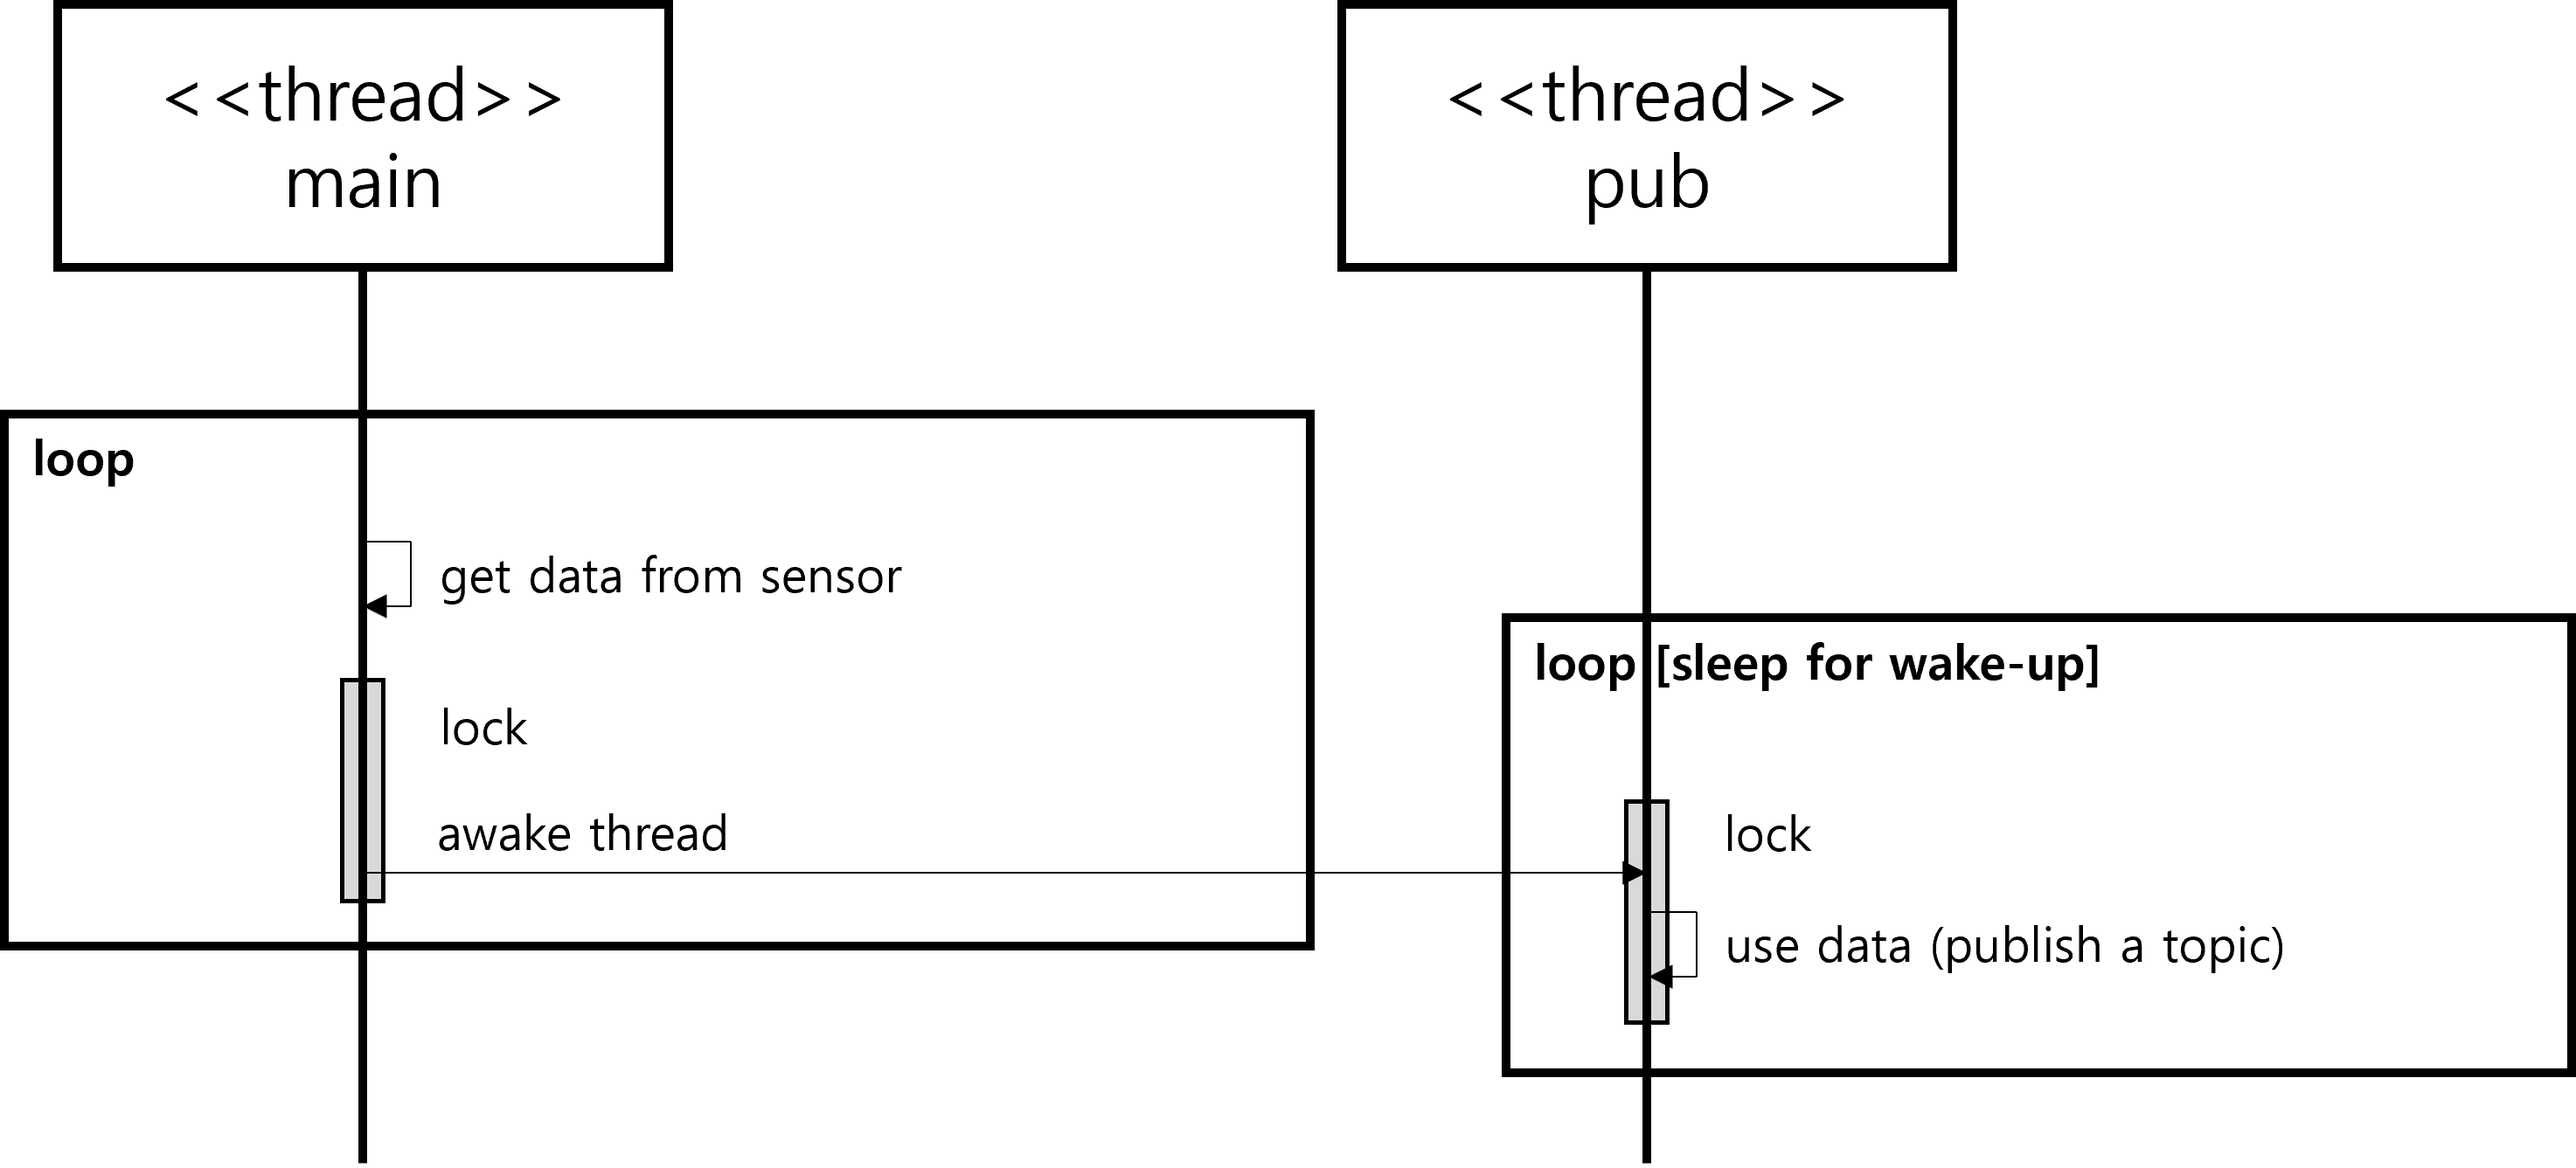
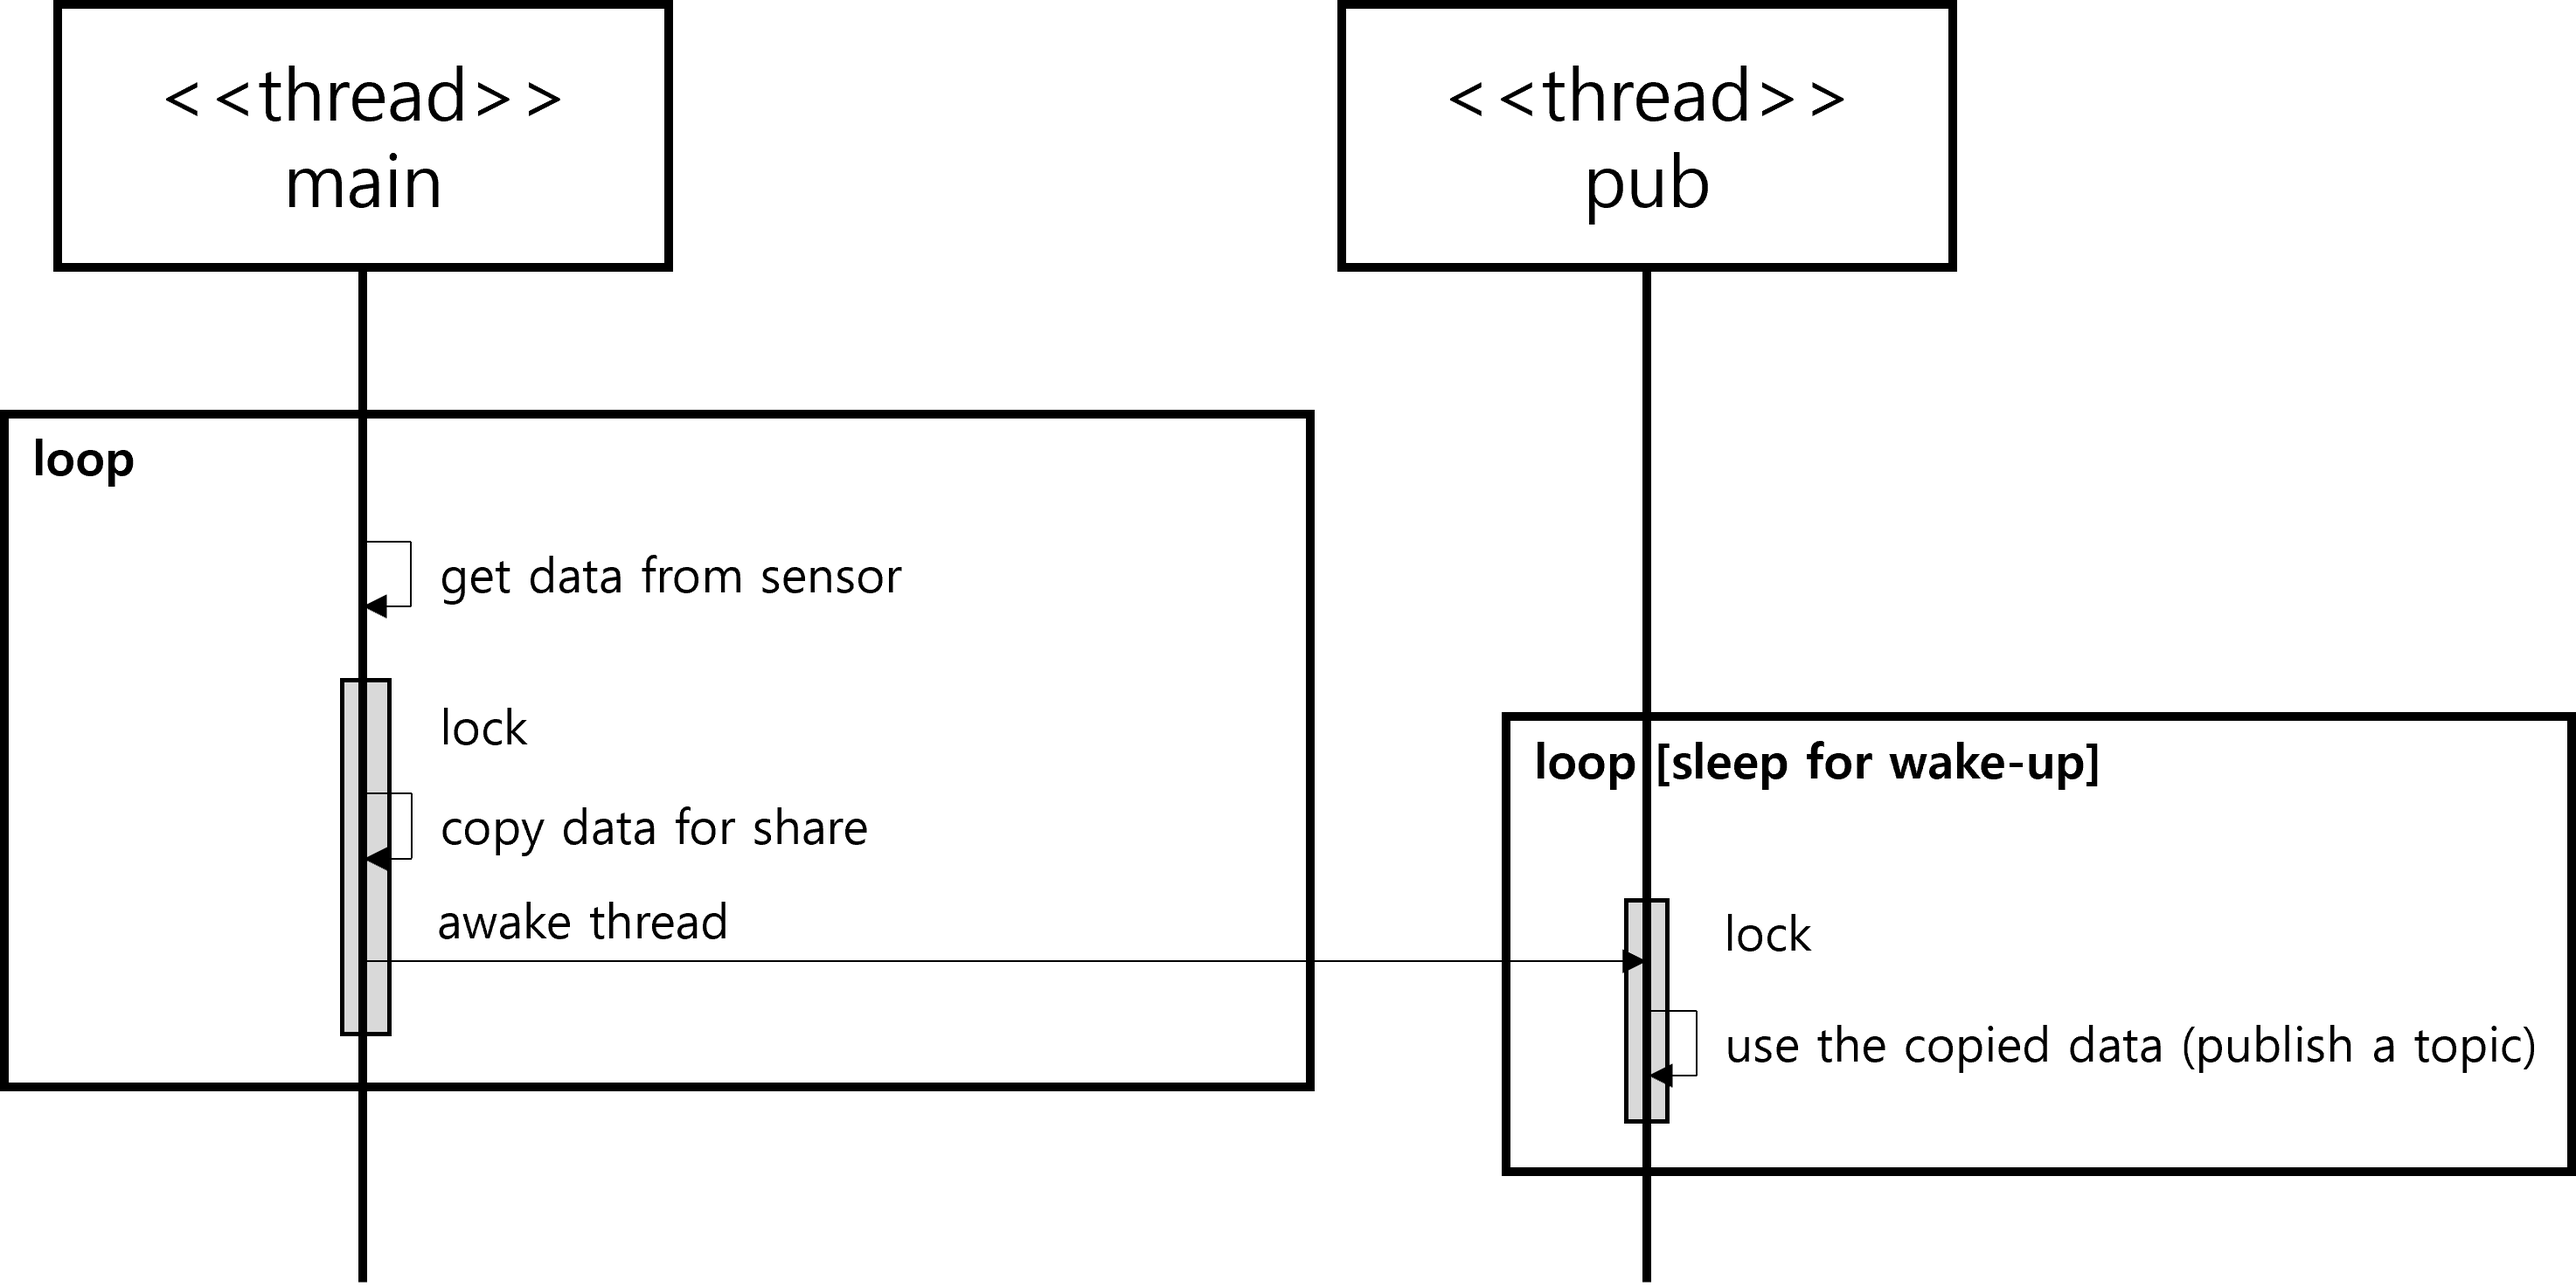
Separating the buffer for share

diff --git a/src/sensor.cpp b/src/sensor.cpp
@@ -38,7 +38,7 @@ void Sensor::poll() {
     data = getSensorData();
 
     std::lock_guard<std::mutex> lock(data_mutex);
-
+    data_for_share = data;
     data_ready = true;
     data_cond.notify_one();
 }
@@ -52,7 +52,7 @@ void Sensor::publish() {
         // sleep for 2 second
         std::this_thread::sleep_for(std::chrono::seconds(2));
 
-        std::cout << "publish topic - " << data << std::endl;
+        std::cout << "publish topic - " << data_for_share << std::endl;
         data_ready = false;
     }
 }

diff --git a/inc/sensor.hpp b/inc/sensor.hpp
@@ -29,7 +29,7 @@ private:
     int getSensorData();
 
 private:
-    Data data;
+    Data data, data_for_share;
 
     std::thread publishThread;
 

diff --git a/README.md b/README.md
@@ -6,20 +6,24 @@
 
 ![Flow Diagram](img/flow.png)
 
-Two threads are running concurrently and share data. While pub-thread is using the data, the main-thread may overwrite the data. A race condition occurs as shown below.
+Two threads are running concurrently and share data. But the data for share is different from the data that is written by sensor. It's synchronized using lock. A race condition doesn't occur as shown below.
 
 ```
 $ sensor-node
 1
 Data processed
+Data copied
 2
 Data processed
-publish topic - 2
+publish topic - 1
+Data copied
 3
 Data processed
-publish topic - 3
+publish topic - 2
+Data copied
 publish topic - 3
 ```
+However additional data copies can cause performance degradation, especially when the data size is large or the frequency is high.
 
 ## Project Structure
 
